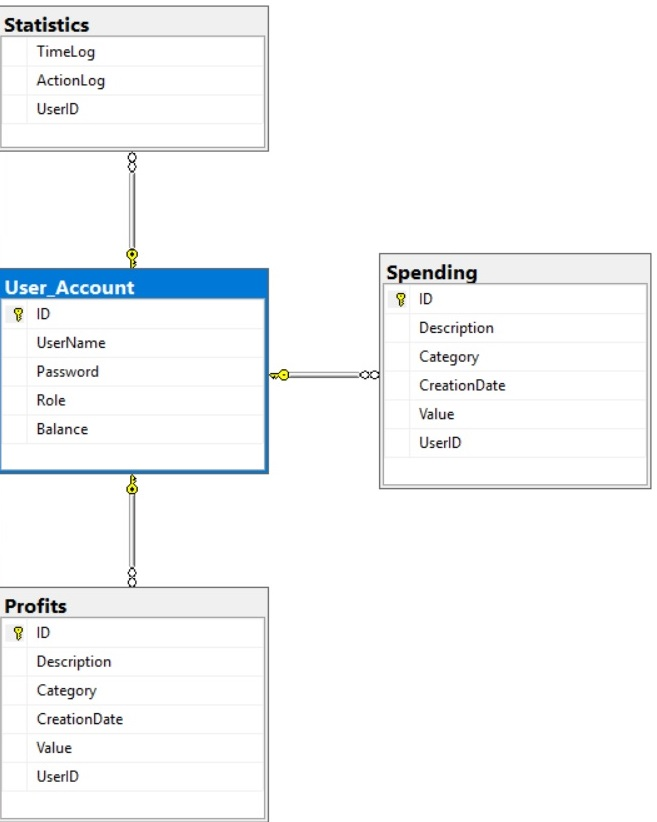
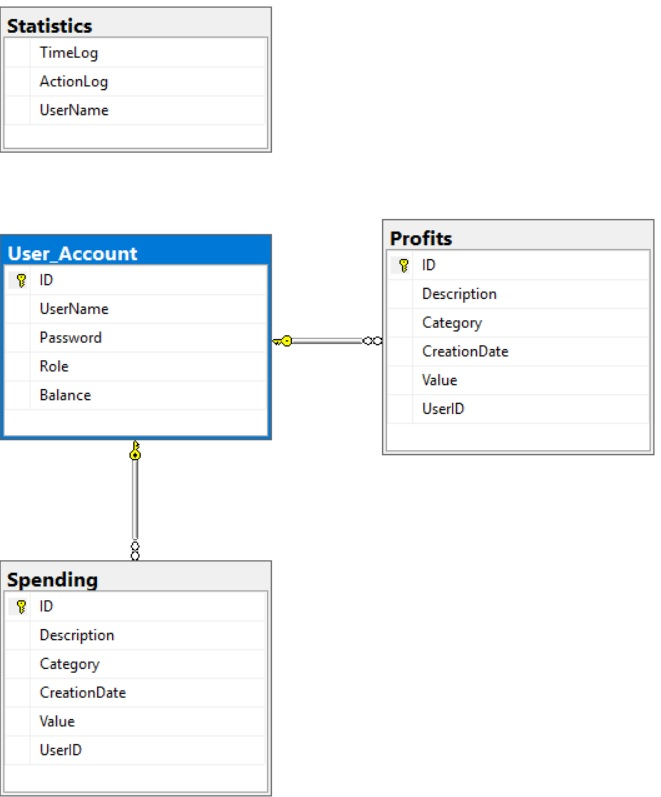
Modify table Statistics in database - now it does not have foreign key to user account - so user can delete his account, and in statistic we will have user name not connected with record in user account table. Update all resourses that use Statistics.

Changed region(s): [[0.0, 0.0, 1.0, 1.0]]

diff --git a/src/financetracker/manager/DatabaseQueryManager.java b/src/financetracker/manager/DatabaseQueryManager.java
@@ -83,11 +83,11 @@ public class DatabaseQueryManager {
     public static void insertStatistics(Connection connection, Statistics statistics)
         throws SQLException
     {
-        String sql = "INSERT INTO [Statistics] (ActionLog, UserID) " +
+        String sql = "INSERT INTO [Statistics] (ActionLog, UserName) " +
                 "VALUES(?, ?) ";
         PreparedStatement preparedStatement = connection.prepareStatement(sql);
         preparedStatement.setString(1, statistics.getActionLog());
-        preparedStatement.setInt(2, statistics.getUserID());
+        preparedStatement.setString(2, statistics.getUserName());
 
         preparedStatement.executeUpdate();
     }
@@ -105,9 +105,9 @@ public class DatabaseQueryManager {
         {
             Date timeLog = resultSet.getDate("TimeLog");
             String actionLog = resultSet.getString("ActionLog");
-            int userID = resultSet.getInt("UserID");
+            String userName = resultSet.getString("UserName");
 
-            Statistics statistics = new Statistics(userID, actionLog);
+            Statistics statistics = new Statistics(userName, actionLog);
             statistics.setTimeLog(timeLog);
 
             list.add(statistics);

diff --git a/src/financetracker/beans/Statistics.java b/src/financetracker/beans/Statistics.java
@@ -6,14 +6,14 @@ import java.io.Serializable;
 public class Statistics implements Serializable{
 
     private Date timeLog; // auto-set in database
-    private int userID;
+    private String userName;
     private String actionLog; // may be "login", "logout", "signup" or "delete"
 
     public Statistics() {}
 
-    public Statistics(int userID, String actionLog)
+    public Statistics(String userName, String actionLog)
     {
-        this.userID = userID;
+        this.userName = userName;
         this.actionLog = actionLog;
     }
 
@@ -27,14 +27,14 @@ public class Statistics implements Serializable{
         return timeLog;
     }
 
-    public void setUserID(int userID)
+    public void setUserName(String userName)
     {
-        this.userID = userID;
+        this.userName = userName;
     }
 
-    public int getUserID()
+    public String getUserName()
     {
-        return userID;
+        return userName;
     }
 
     public void setActionLog(String actionLog)

diff --git a/src/financetracker/servlet/LoginServlet.java b/src/financetracker/servlet/LoginServlet.java
@@ -85,7 +85,7 @@ public class LoginServlet extends HttpServlet {
             //  store statistics about login in database
             Connection connection = TemporaryStoringManager.getStoredConnection(request);
             String actionlog = "login";
-            Statistics statistics = new Statistics(user.getUserID(), actionlog);
+            Statistics statistics = new Statistics(user.getUserName(), actionlog);
             try
             {
                 DatabaseQueryManager.insertStatistics(connection, statistics);

diff --git a/src/financetracker/servlet/LogoutServlet.java b/src/financetracker/servlet/LogoutServlet.java
@@ -32,7 +32,7 @@ public class LogoutServlet extends HttpServlet {
         //  store statistics about logout in database
         Connection connection = TemporaryStoringManager.getStoredConnection(request);
         String actionLog = "logout";
-        Statistics statistics = new Statistics(user.getUserID(), actionLog);
+        Statistics statistics = new Statistics(user.getUserName(), actionLog);
         try
         {
             DatabaseQueryManager.insertStatistics(connection, statistics);
